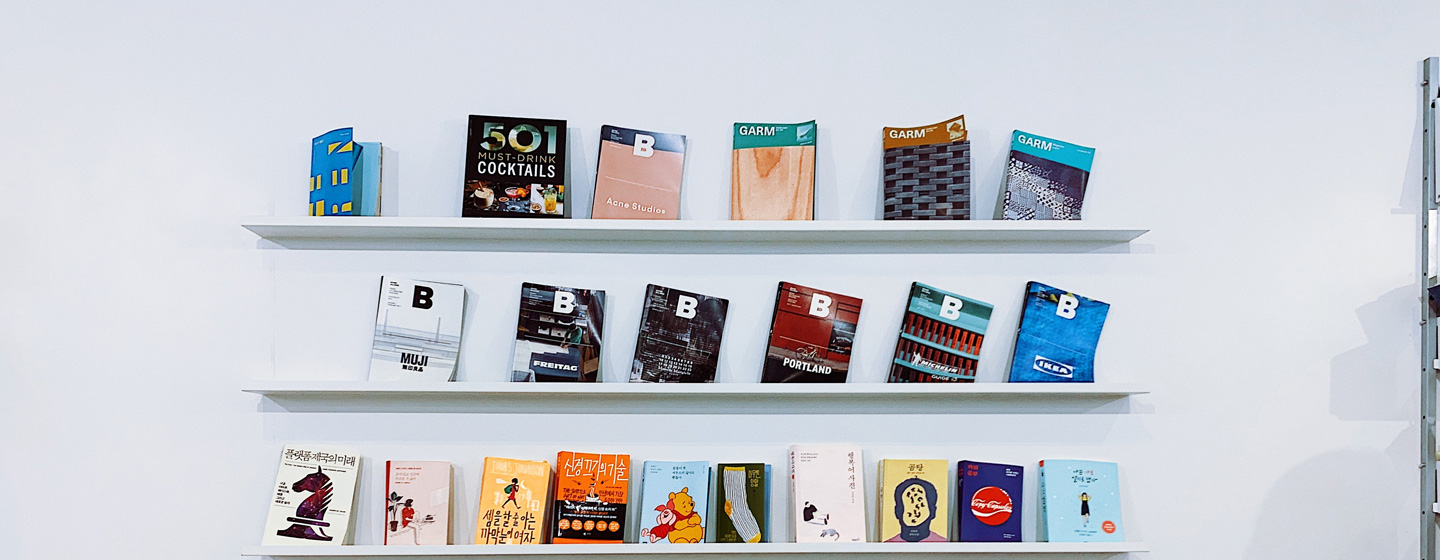
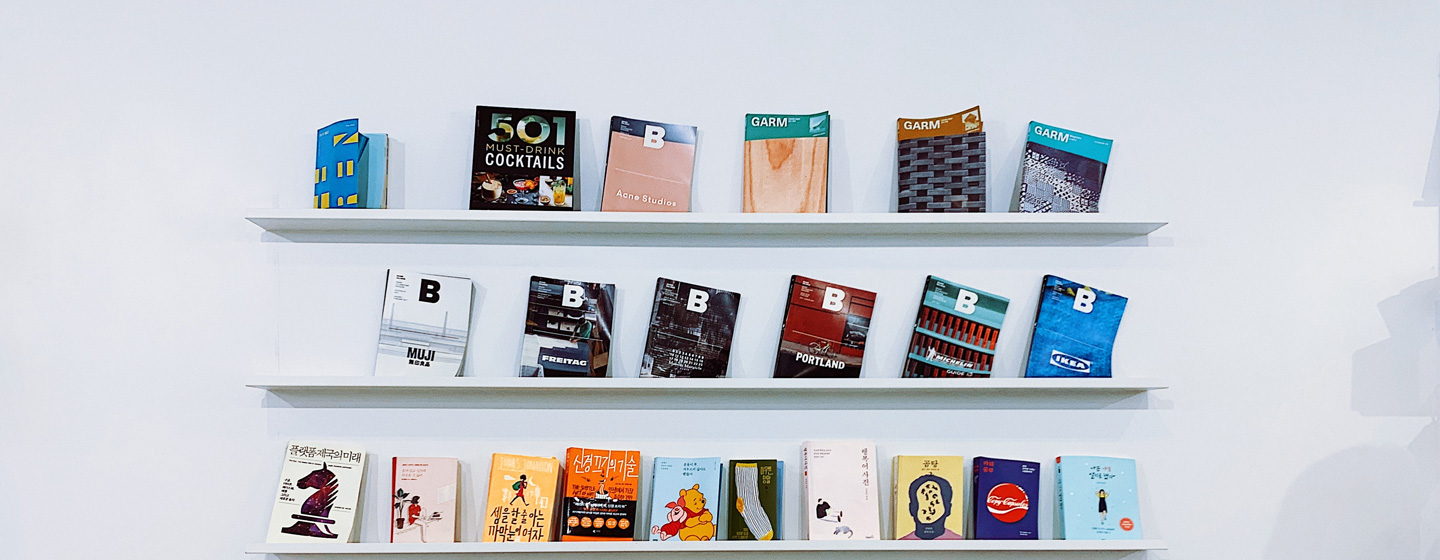
updated big thumbnail images for projects

diff --git a/hammoc.html b/hammoc.html
@@ -95,8 +95,8 @@
                             $breakpointMedium (1024-1440) max. 1440 * 560
                         -->
                     <picture>
-                        <source srcset="assets/img/projects/hammoc/thumbnail/big/bookshelf-on-white-wall_1440x560.jpg" media="(max-width: 599px)">
-                        <source srcset="assets/img/projects/hammoc/thumbnail/big/bookshelf-on-white-wall_1440x560.jpg" media="(max-width: 1023px)">
+                        <source srcset="assets/img/projects/hammoc/thumbnail/big/bookshelf-on-white-wall_599x400.jpg" media="(max-width: 599px)">
+                        <source srcset="assets/img/projects/hammoc/thumbnail/big/bookshelf-on-white-wall_1023x400.jpg" media="(max-width: 1023px)">
                         <source srcset="assets/img/projects/hammoc/thumbnail/big/bookshelf-on-white-wall_1440x560.jpg" media="(min-width: 1024px)">
                         <img src="assets/img/projects/hammoc/thumbnail/big/bookshelf-on-white-wall_1440x560.jpg" class="yb_section-thumbnail__img-container__img" alt="curvy highway road" />
                     </picture>

diff --git a/talentroad.html b/talentroad.html
@@ -95,8 +95,8 @@
                             $breakpointMedium (1024-1440) max. 1440 * 560
                         -->
                     <picture>
-                        <source srcset="assets/img/projects/talentroad/thumbnail/big/curvy-road_1440x560.jpg" media="(max-width: 599px)">
-                        <source srcset="assets/img/projects/talentroad/thumbnail/big/curvy-road_1440x560.jpg" media="(max-width: 1023px)">
+                        <source srcset="assets/img/projects/talentroad/thumbnail/big/curvy-road_599x400.jpg" media="(max-width: 599px)">
+                        <source srcset="assets/img/projects/talentroad/thumbnail/big/curvy-road_1023x400.jpg" media="(max-width: 1023px)">
                         <source srcset="assets/img/projects/talentroad/thumbnail/big/curvy-road_1440x560.jpg" media="(min-width: 1024px)">
                         <img src="assets/img/projects/talentroad/thumbnail/big/curvy-road_1440x560.jpg" class="yb_section-thumbnail__img-container__img" alt="curvy highway road" />
                     </picture>
